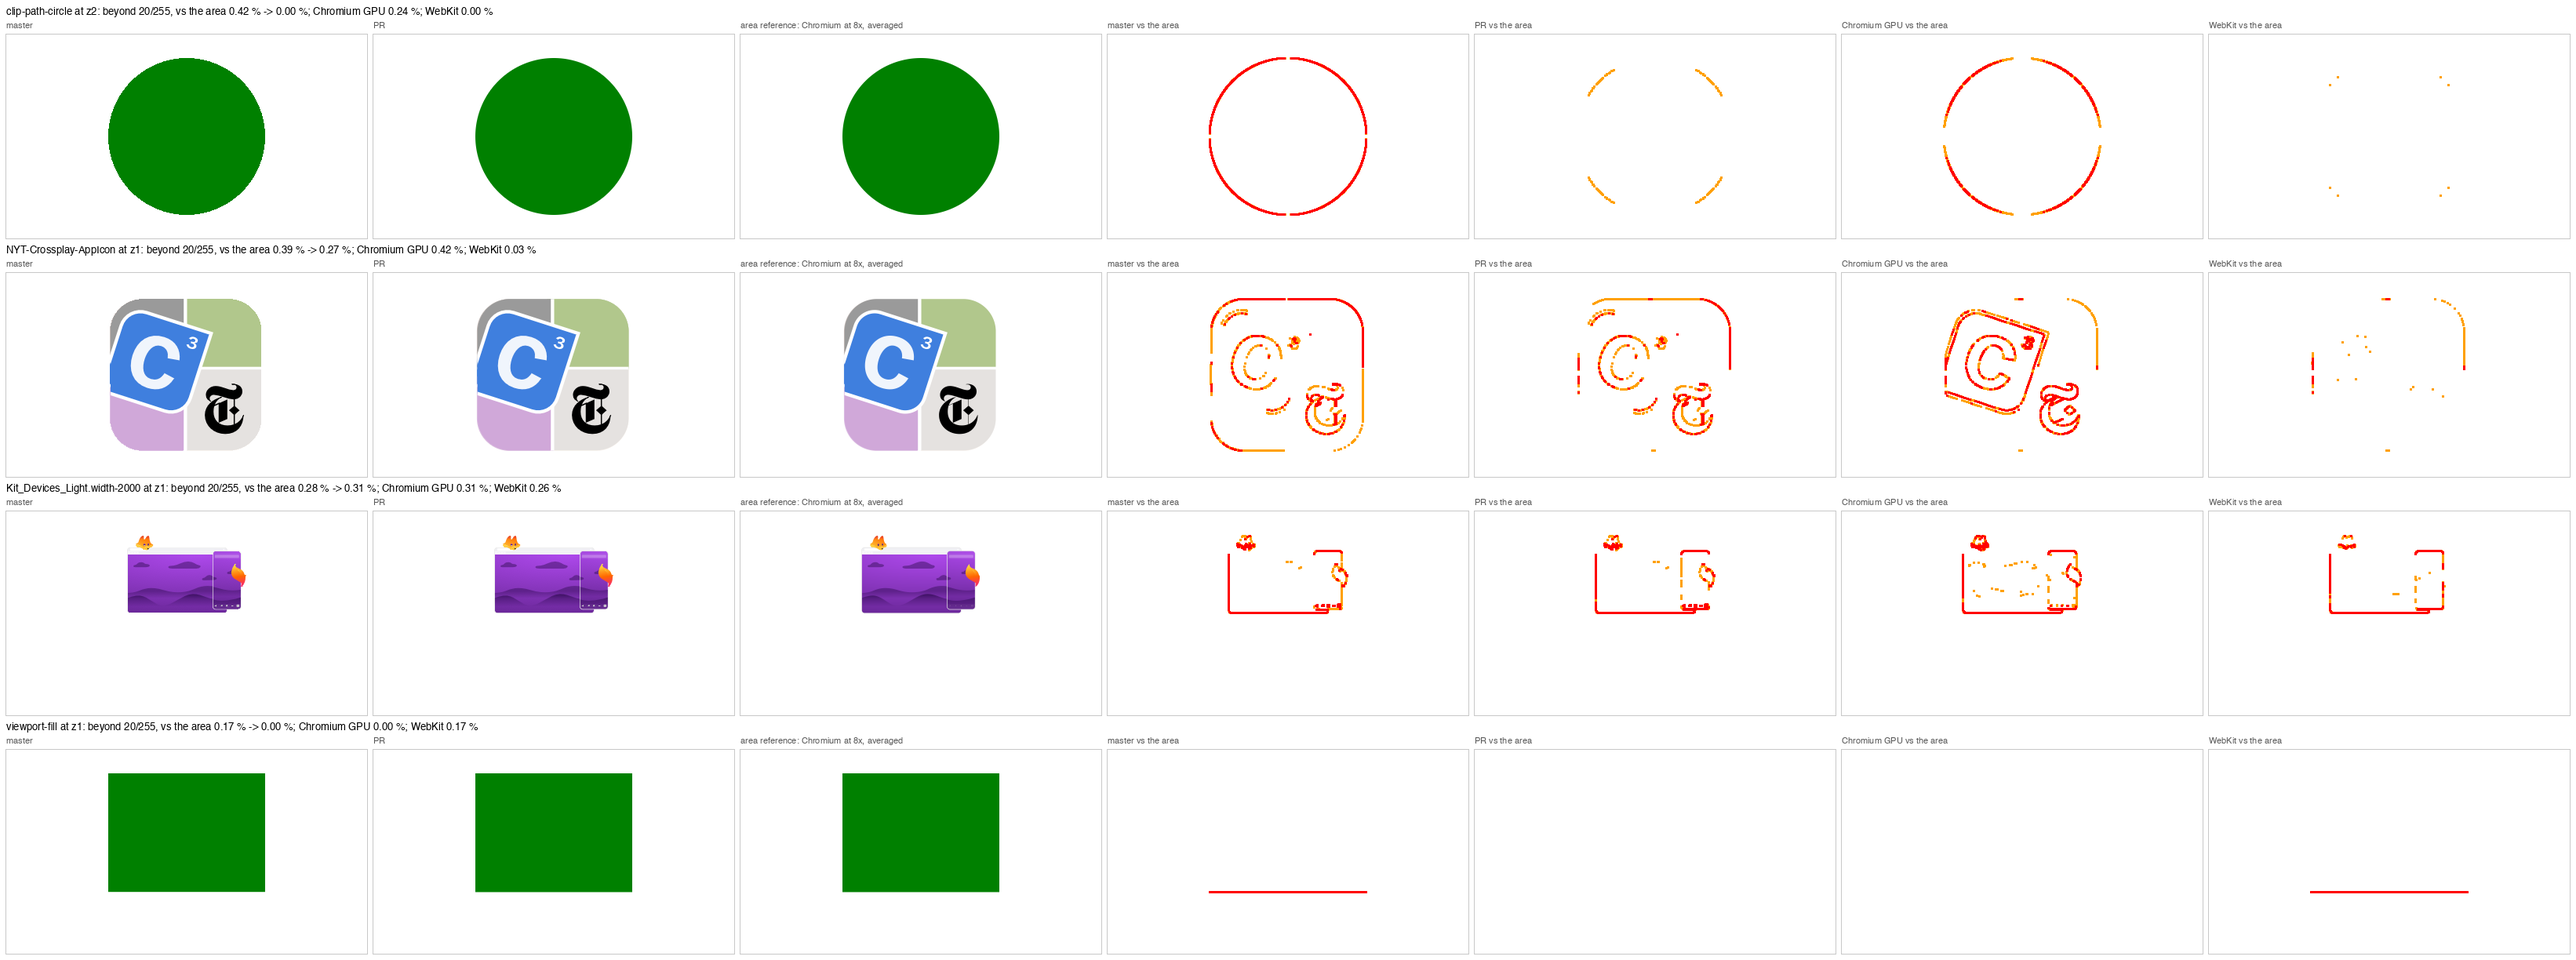
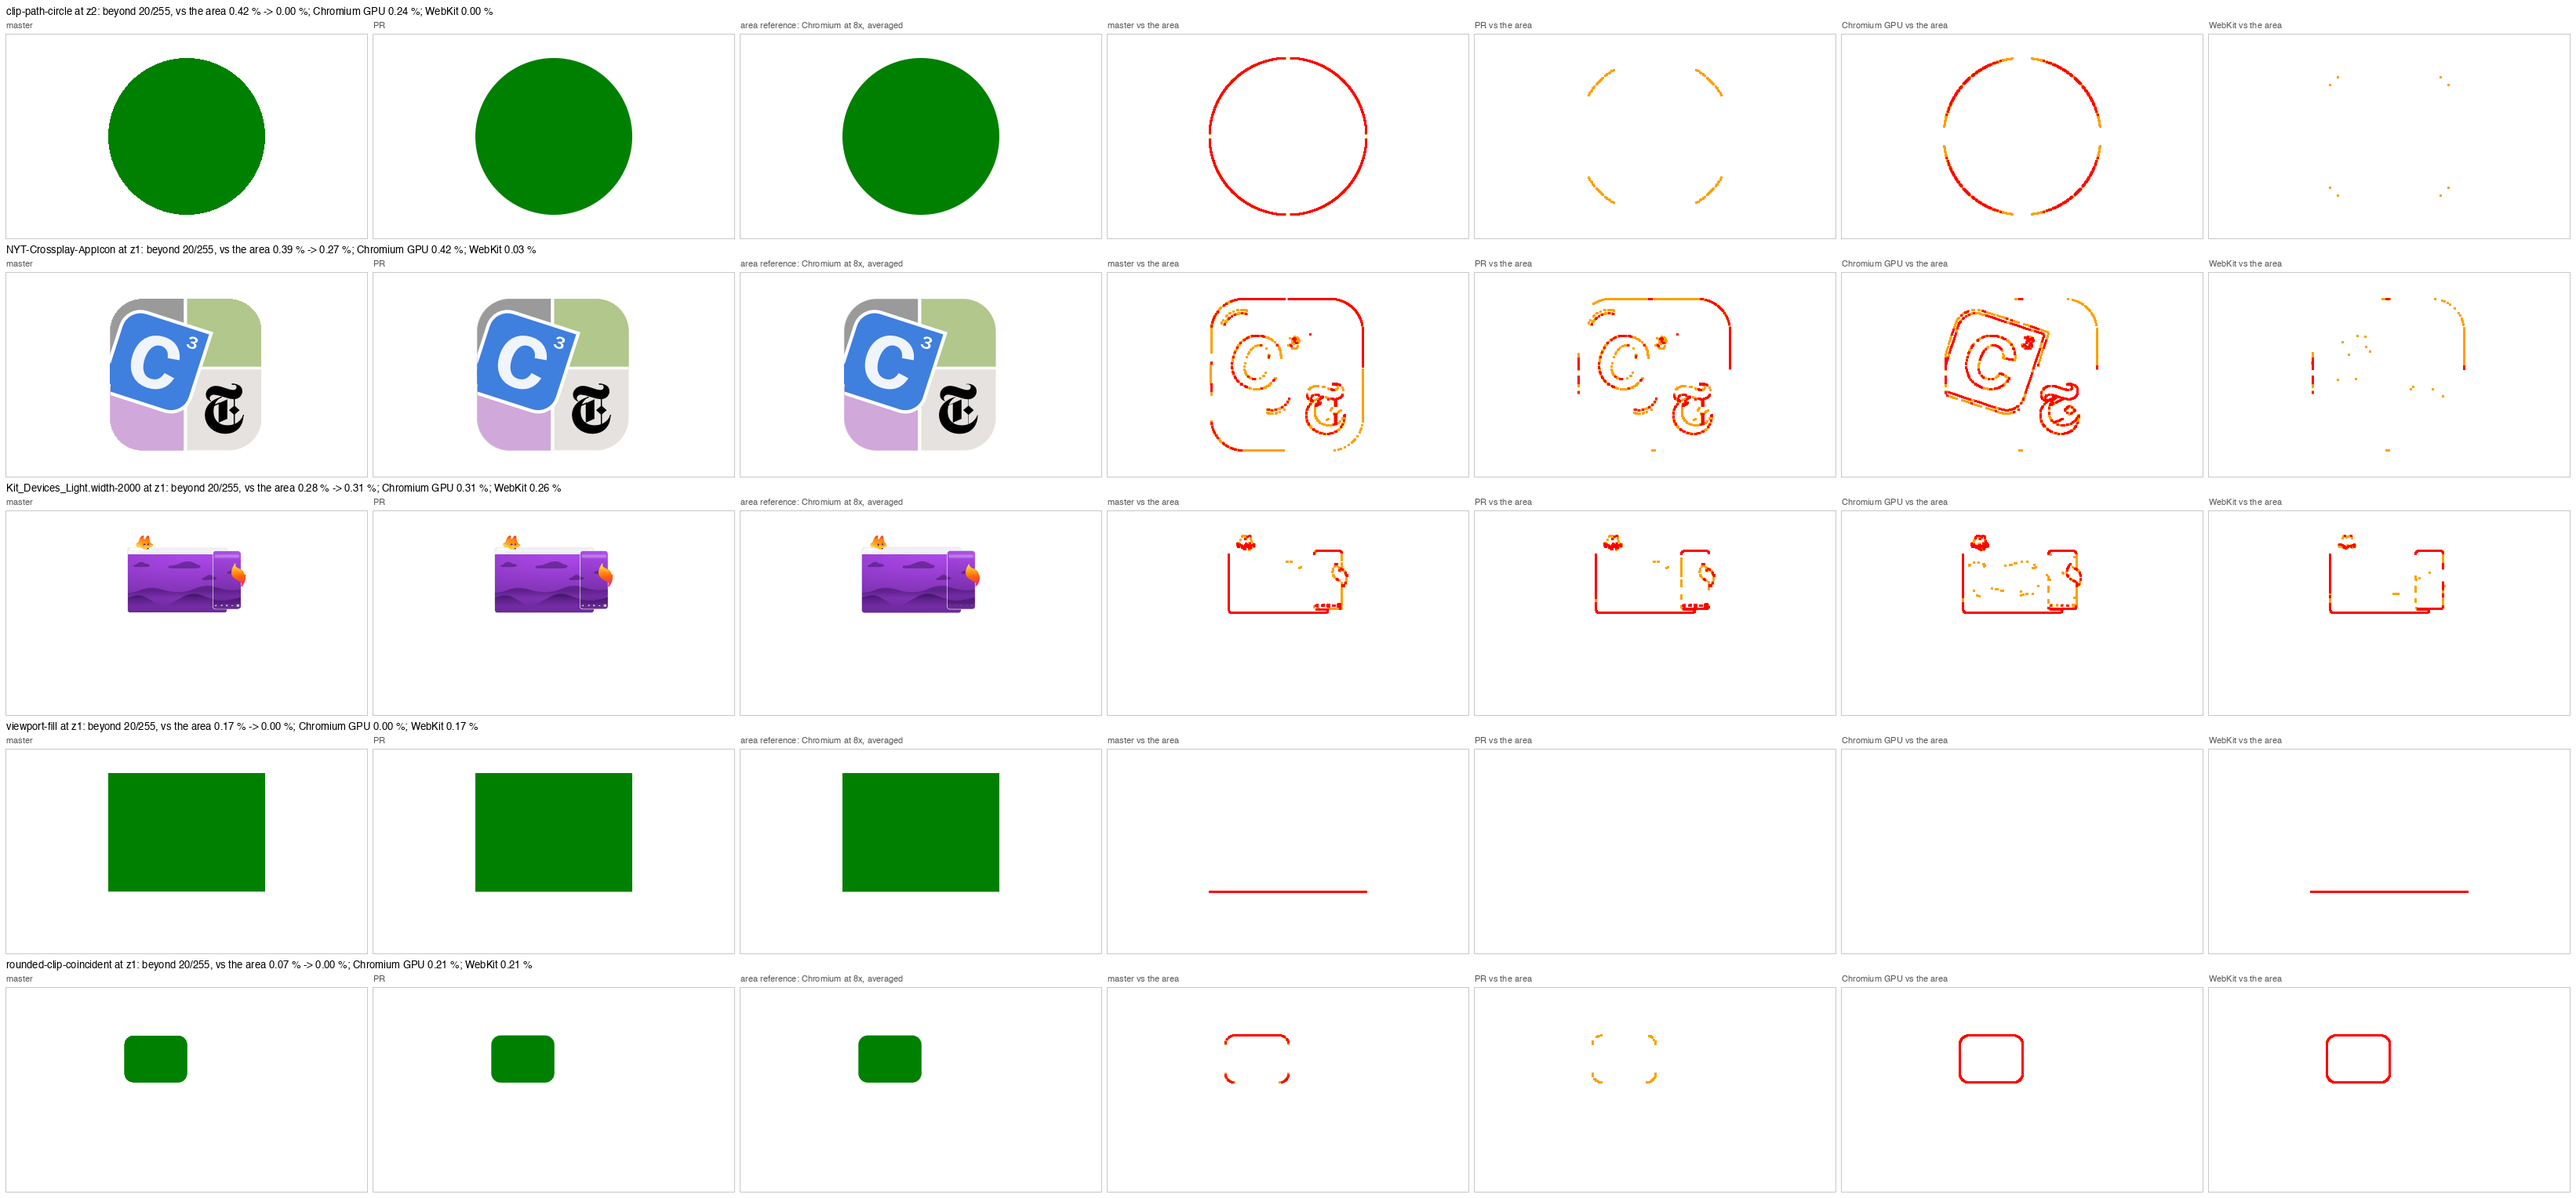
Clip edges: the sheet and probe tables for #380 with a draw held by its outline

diff --git a/corpus/clip-probes/README.md b/corpus/clip-probes/README.md
@@ -4,7 +4,7 @@ What a renderer draws in the pixels that a clip's edge crosses, and what it does
 content's, another clip's or the viewport's. Frames are 460 x 260 at the `harness/corpus_run` framings (`z1` is the
 fit, `z2` twice it); the references are Chromium 131 rasterizing in software (`--disable-gpu`, `refs.py`) and on the
 GPU (ANGLE on Metal, `refs_gpu.py`), Firefox 158 and WebKit (Safari 27, `refs_webkit.py`). femtovg with stencil
-clips is master 9d574e0; with shape clips, femtovg/femtovg#380 at 131597f, where the scissor the harness cuts to the
+clips is master 9d574e0; with shape clips, femtovg/femtovg#380 at 620b19c, where the scissor the harness cuts to the
 viewport with is a box like the clip.
 
 ## Ink against the exact area
@@ -18,8 +18,8 @@ multiplies two coverages on a shared edge is short by about a sixth of a pixel p
 | `rect-fill-fractional` | 1528 | +0.4 | +0.4 | +0.4 | +0.4 | +0.4 | -0.2 |
 | `rect-clip-fractional` | 1528 | +2.4 | +0.4 | -0.0 | +0.4 | -0.0 | +0.1 |
 | `rect-clip-coincident` | 1528 | -20.0 | +0.4 | -31.7 | +0.4 | -31.7 | -30.0 |
-| `rounded-clip-coincident` | 4727 | -34.8 | -48.8 | -52.5 | -48.2 | -53.3 | -48.1 |
-| `rotated-clip-coincident` | 4850 | -34.1 | -46.6 | -36.1 | -46.7 | -50.1 | -46.3 |
+| `rounded-clip-coincident` | 4727 | -34.8 | -2.6 | -52.5 | -48.2 | -53.3 | -48.1 |
+| `rotated-clip-coincident` | 4850 | -34.1 | +0.3 | -36.1 | -46.7 | -50.1 | -46.3 |
 | `rect-clip-path-edge` | 4850 | -8.2 | -32.1 | -32.7 | -31.7 | -32.9 | -32.1 |
 | `rect-clip-rect-inside` | 800 | -15.7 | +0.6 | -11.9 | +0.6 | -12.0 | -14.0 |
 | `rect-clip-path-inside` | 3196 | -23.9 | +0.1 | -18.8 | +0.1 | -19.0 | -24.9 |
@@ -45,7 +45,7 @@ about - next to that pixel's share inside (`harness/corpus_run/probe_edges.py`).
 | `rect-fill-fractional` | z1 | .70 .80 .40 .85 | .70 .80 .40 .85 | .70 .80 .40 .85 | .70 .80 .40 .85 | .70 .80 .40 .85 | .70 .80 .40 .85 | .70 .80 .40 .85 |
 | `rect-clip-fractional` | z1 | .70 .80 .40 .85 | 1 1 0 1 | .70 .80 .40 .85 | .70 .80 .50 .75 | .70 .80 .40 .85 | .70 .80 .50 .75 | .70 .80 .40 .85 |
 | `rect-clip-coincident` | z1 | .70 .80 .40 .85 | .70 .80 0 .85 | .70 .80 .40 .85 | .49 .64 .20 .64 | .70 .80 .40 .85 | .49 .64 .20 .64 | .49 .64 .16 .72 |
-| `rounded-clip-coincident` | z1 | .70 .80 .40 .85 | .70 .80 0 .85 | .49 .64 .16 .73 | .49 .64 .25 .57 | .49 .64 .16 .73 | .49 .64 .25 .57 | .49 .64 .16 .73 |
+| `rounded-clip-coincident` | z1 | .70 .80 .40 .85 | .70 .80 0 .85 | .70 .80 .40 .85 | .49 .64 .25 .57 | .49 .64 .16 .73 | .49 .64 .25 .57 | .49 .64 .16 .73 |
 | `rect-clip-rect-inside` | z1 | .70 .40 | .70 0 | .70 .40 | .49 .20 | .70 .40 | .49 .20 | .49 .16 |
 | `rect-clip-path-inside` | z1 | .70 .40 | .70 0 | .70 .40 | .49 .25 | .70 .40 | .48 .25 | .49 .16 |
 | `rounded-clip-rect-inside` | z1 | .70 | .70 | .70 | .49 | .70 | .49 | .49 |
@@ -78,10 +78,12 @@ about - next to that pixel's share inside (`harness/corpus_run/probe_edges.py`).
   at the fit - at 2x and 4x it counts the rounded twin once - and where a path that is no rect ends on a rect clip's
   edge and reaches past it elsewhere. Its tests are exact in floats and made per raster tile, so the same file can
   come out either way at another zoom.
-- The shape clip does what the GPU rasterizer does in each of these, by a tolerance of a 64th of a pixel: on all 19
-  probes its ink is within a pixel of that rasterizer's, and on 15 within a pixel of the exact area (stencil clips 3,
-  WebKit 3, software Chromium 3, Firefox 2). The four left multiply in every renderer: the rounded and the turned
-  twin, the path on a rect clip's edge, and a rect band across a rounded clip.
+- The shape clip does what the GPU rasterizer does in each of these, by a tolerance of a 64th of a pixel, and holds a
+  draw by the points of its outline as well, so that a rounded or a turned clip's twin is covered once at every
+  scale: on 17 of the 19 probes its ink is within a pixel of that rasterizer's - the other two are those twins - and
+  on 16 within a pixel of the exact area (stencil clips 3, WebKit 3, software Chromium 3, Firefox 2). Of the three
+  left, the rounded twin is drawn as without its clip to the bit, a fill that is itself 3 px short of its area; the
+  other two multiply in every renderer: the path on a rect clip's edge, and a rect band across a rounded clip.
 
 ## Against the exact area
 
